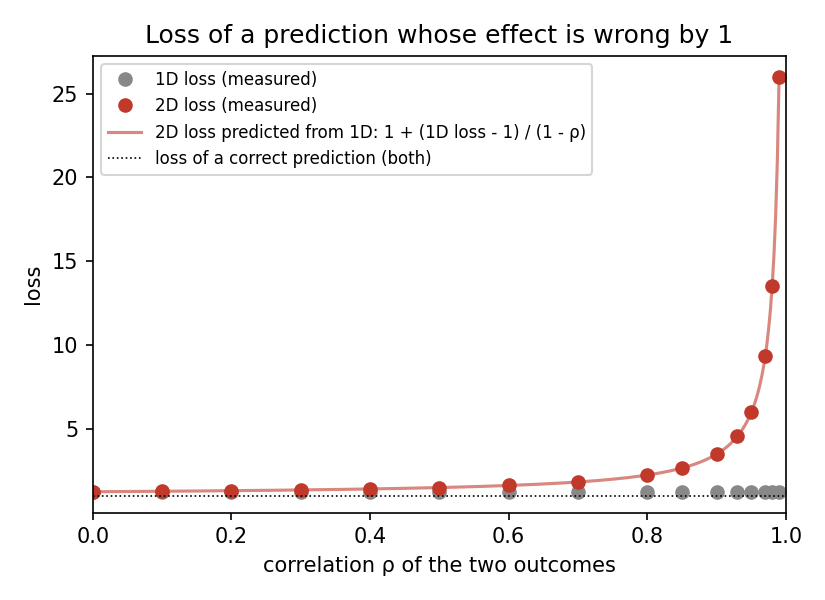
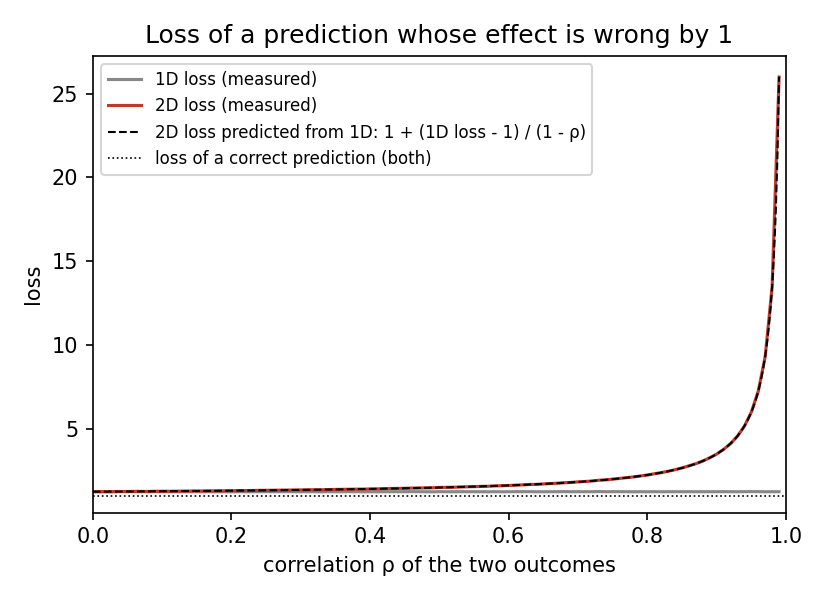
reason figure: lines, 100-point correlation grid
Claude-Session: https://claude.ai/code/session_01AZV2d6TbWGuV4cMQVAXpNa

diff --git a/revision/theory/loss_geometry/fig_reason.py b/revision/theory/loss_geometry/fig_reason.py
@@ -12,7 +12,7 @@ import matplotlib.pyplot as plt
 
 OUT = sys.argv[1]; rng = np.random.default_rng(0); N = 200_000
 e = np.array([-0.5, 0.5])
-rhos = np.array([0, .1, .2, .3, .4, .5, .6, .7, .8, .85, .9, .93, .95, .97, .98, .99]); L1, L2 = [], []
+rhos = np.linspace(0, 0.99, 100); L1, L2 = [], []
 for r in rhos:
     S = np.array([[1, r], [r, 1]]); z = rng.standard_normal((N, 2)) @ np.linalg.cholesky(S).T
     res = z - e                                         # Y - prediction = noise - error
@@ -22,12 +22,12 @@ L1, L2 = np.array(L1), np.array(L2)
 fine = np.linspace(0, 0.99, 400)
 theory = 1 + (L1.mean() - 1) / (1 - fine)
 fig, ax = plt.subplots(figsize=(5.5, 4))
-ax.plot(rhos, L1, "o", color="#888888", label="1D loss (measured)")
-ax.plot(rhos, L2, "o", color="#c0392b", label="2D loss (measured)")
-ax.plot(fine, theory, "-", color="#c0392b", alpha=0.6, label="2D loss predicted from 1D: 1 + (1D loss - 1) / (1 - ρ)")
+ax.plot(rhos, L1, "-", color="#888888", label="1D loss (measured)")
+ax.plot(rhos, L2, "-", color="#c0392b", label="2D loss (measured)")
+ax.plot(fine, theory, "--", color="k", lw=1, label="2D loss predicted from 1D: 1 + (1D loss - 1) / (1 - ρ)")
 ax.axhline(1, color="k", lw=0.8, ls=":", label="loss of a correct prediction (both)")
 ax.set(xlabel="correlation ρ of the two outcomes", ylabel="loss", xlim=(0, 1),
        title="Loss of a prediction whose effect is wrong by 1")
 ax.legend(fontsize=8); fig.tight_layout()
 for ext in ("png", "pdf"): fig.savefig(os.path.join(OUT, f"reason.{ext}"), dpi=150)
-for r, a, b in zip(rhos, L1, L2): print(f"rho {r:.2f}  1D {a:.3f}  2D {b:.3f}  predicted {1 + (a - 1) / (1 - r):.3f}")
+for r, a, b in list(zip(rhos, L1, L2))[::11]: print(f"rho {r:.2f}  1D {a:.3f}  2D {b:.3f}  predicted {1 + (a - 1) / (1 - r):.3f}")
